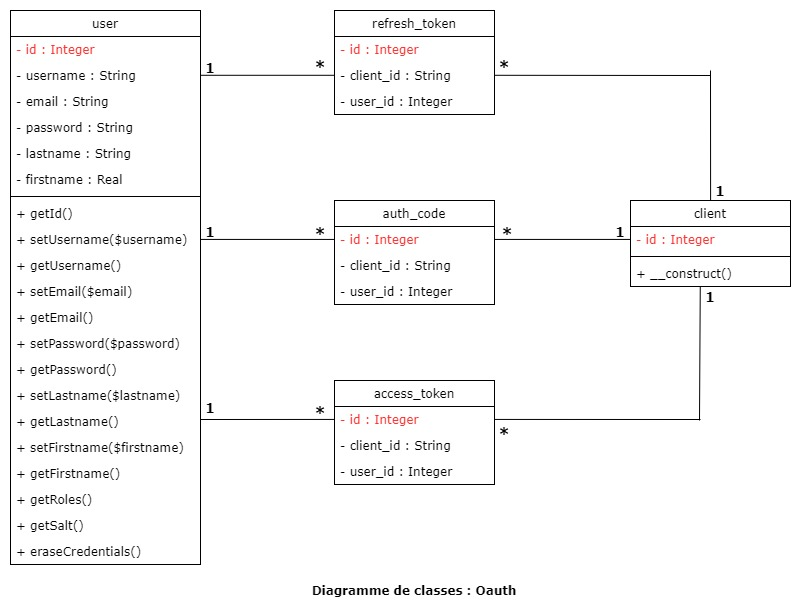
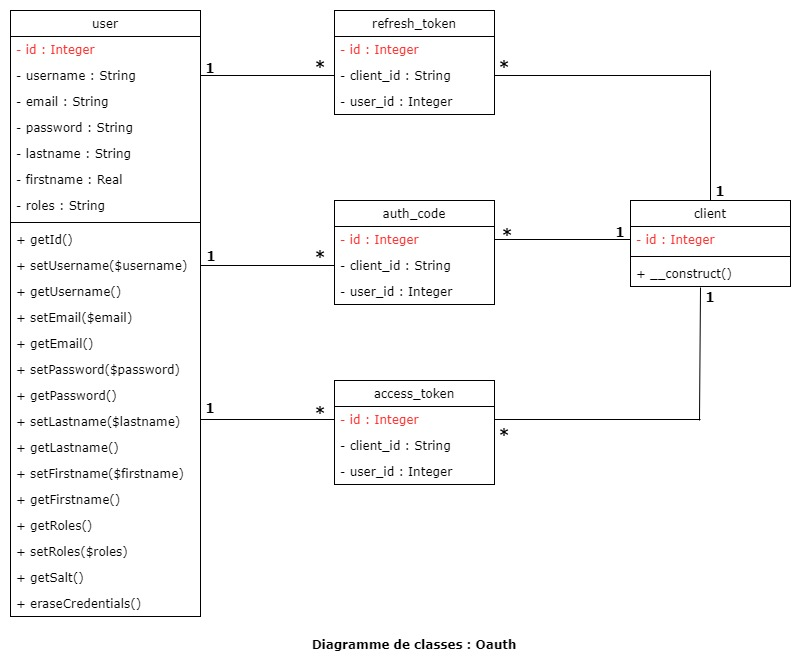
Minor modifications and ROLE_ADMIN security, closes #5

diff --git a/src/AppBundle/Controller/SecurityController.php b/src/AppBundle/Controller/SecurityController.php
@@ -31,6 +31,11 @@ class SecurityController extends FOSRestController
      * 		description = "User's email."
      * )
      * @Rest\RequestParam(
+     *		name = "username",
+     *		nullable = false,
+     * 		description = "User's username."
+     * )
+     * @Rest\RequestParam(
      *		name = "password",
      *		nullable = false,
      * 		description = "User's password."
@@ -69,6 +74,12 @@ class SecurityController extends FOSRestController
      *		name = "redirect_uri",
      *		description = "The url where Oauth server will be redirected."
      * )
+     * @Rest\RequestParam(
+     *		name = "role",
+     *      requirements = "ROLE_USER|ROLE_ADMIN",
+     *		nullable = false,
+     *		description = "Possibility to create an Admin who can delete users."
+     * )
      * @Doc\ApiDoc(
      * 		section = "User",
      *		resource = true,
@@ -79,9 +90,11 @@ class SecurityController extends FOSRestController
     {
         $user = new User();
         $user->setEmail($paramFetcher->get('email'));
+        $user->setUsername($paramFetcher->get('username'));
         $user->setPassword($encoder->encodePassword($user, $paramFetcher->get('password')));
         $user->setLastname($paramFetcher->get('lastname'));
         $user->setFirstname($paramFetcher->get('firstname'));
+        $user->setRoles(array($paramFetcher->get('role')));
         $errors = $this->get('validator')->validate($user);
         if (count($errors)) {
             $message = 'The JSON sent contains invalid data. Here are the errors you need to correct: ';
@@ -99,7 +112,7 @@ class SecurityController extends FOSRestController
             'client_id'		=> $paramFetcher->get('client_id'),
             'client_secret'	=> $paramFetcher->get('client_secret'),
             'grant_type'	=> $paramFetcher->get('grant_type'),
-            'username'		=> $user->getUsername(),
+            'username'		=> $user->getEmail(),
             'password'		=> $paramFetcher->get('password'),
             'redirect_uri'	=> $paramFetcher->get('redirect_uri')
         ]);

diff --git a/src/AppBundle/Controller/UserController.php b/src/AppBundle/Controller/UserController.php
@@ -9,6 +9,7 @@ use FOS\RestBundle\Controller\Annotations as Rest;
 use Nelmio\ApiDocBundle\Annotation as Doc;
 use FOS\RestBundle\Request\ParamFetcherInterface;
 use Symfony\Component\HttpFoundation\Request;
+use Sensio\Bundle\FrameworkExtraBundle\Configuration\Security;
 
 /**
  * @Route("/api")
@@ -57,7 +58,7 @@ class UserController extends Controller
 
     /**
      * @Rest\Get(
-     *		path = "/users/{id}",
+     *		path = "/user/{id}",
      *		name = "get_user",
      *		requirements = {"id"="\d+"}
      * )
@@ -85,12 +86,13 @@ class UserController extends Controller
 
     /**
      * @Rest\Delete(
-     *     path = "/users/{id}",
+     *     path = "/user/{id}",
      *     name = "delete_user",
      *     requirements = {"id"="\d+"}
      * )
      *
-     *
+     * @Security("has_role('ROLE_ADMIN')")
+     * 
      * @Rest\View(statusCode=204)
      *
      * @Doc\ApiDoc(

diff --git a/src/AppBundle/Entity/User.php b/src/AppBundle/Entity/User.php
@@ -86,6 +86,11 @@ class User implements UserInterface
     private $firstname;
 
     /**
+     * @ORM\Column(name="role", type="json_array")
+     */
+    private $roles;
+
+    /**
      * Get id
      *
      * @return int
@@ -128,8 +133,6 @@ class User implements UserInterface
      */
     public function setEmail($email)
     {
-        //add email has username 
-        $this->username = $email;
         $this->email = $email;
 
         return $this;
@@ -217,11 +220,18 @@ class User implements UserInterface
         return $this->firstname;
     }
 
-    // interface
-
     public function getRoles()
     {
-        return array('ROLE_USER');
+        $roles = $this->roles;
+
+        return array_unique($roles);
+    }
+
+    public function setRoles(array $roles)
+    {
+        $this->roles = $roles;
+
+        return $this;
     }
 
     public function getSalt()

diff --git a/src/AppBundle/Controller/CategoryController.php b/src/AppBundle/Controller/CategoryController.php
@@ -34,7 +34,7 @@ class CategoryController extends Controller
 
     /**
      * @Rest\Get(
-     *		path = "/categories/{id}",
+     *		path = "/category/{id}",
      *		name = "get_category",
      *		requirements = {"id"="\d+"}
      * )

diff --git a/src/AppBundle/Controller/ProductController.php b/src/AppBundle/Controller/ProductController.php
@@ -65,7 +65,7 @@ class ProductController extends Controller
 
     /**
      * @Rest\Get(
-     *		path = "/products/{id}",
+     *		path = "/product/{id}",
      *		name = "get_product",
      *		requirements = {"id"="\d+"}
      * )

diff --git a/BileMo_doc.md b/BileMo_doc.md
@@ -7,9 +7,9 @@
 _Get the list of all categories._
 
 
-## /api/categories/{id} ##
+## /api/category/{id} ##
 
-### `GET` /api/categories/{id} ###
+### `GET` /api/category/{id} ###
 
 _Get one category._
 
@@ -24,6 +24,21 @@ _Get one category._
 
 
 # Products #
+
+## /api/product/{id} ##
+
+### `GET` /api/product/{id} ###
+
+_Get one product._
+
+#### Requirements ####
+
+**id**
+
+  - Requirement: \d+
+  - Type: integer
+  - Description: The product unique identifier.
+
 
 ## /api/products ##
 
@@ -57,21 +72,6 @@ offset:
   * Default: 0
 
 
-## /api/products/{id} ##
-
-### `GET` /api/products/{id} ###
-
-_Get one product._
-
-#### Requirements ####
-
-**id**
-
-  - Requirement: \d+
-  - Type: integer
-  - Description: The product unique identifier.
-
-
 
 # User #
 
@@ -82,16 +82,9 @@ _Get one product._
 _Get current user informations._
 
 
-## /api/users ##
+## /api/user/{id} ##
 
-### `GET` /api/users ###
-
-_Get all users registered._
-
-
-## /api/users/{id} ##
-
-### `DELETE` /api/users/{id} ###
+### `DELETE` /api/user/{id} ###
 
 _Delete one user._
 
@@ -103,7 +96,7 @@ _Delete one user._
   - Description: The user unique identifier.
 
 
-### `GET` /api/users/{id} ###
+### `GET` /api/user/{id} ###
 
 _Get one user._
 
@@ -114,6 +107,13 @@ _Get one user._
   - Requirement: \d+
   - Type: integer
   - Description: The user unique identifier.
+
+
+## /api/users ##
+
+### `GET` /api/users ###
+
+_Get all users registered._
 
 
 ## /register ##
@@ -129,6 +129,12 @@ email:
   * type: [a-z0-9._-]+@[a-z0-9._-]{2,}\.[a-z]{2,4}
   * required: true
   * description: User's email.
+
+username:
+
+  * type: 
+  * required: true
+  * description: User's username.
 
 password:
 
@@ -171,3 +177,9 @@ redirect_uri:
   * type: 
   * required: true
   * description: The url where Oauth server will be redirected.
+
+role:
+
+  * type: ROLE_USER|ROLE_ADMIN
+  * required: true
+  * description: Possibility to create an Admin who can delete users.

diff --git a/README.md b/README.md
@@ -34,7 +34,7 @@ Faites une requête POST sur /oauth/v2/token avec les paramètres suivants :
 1. client_secret = CLIENT_SECRET
 1. redirect_uri = REDIRECT_URI
 1. grant_type = password
-1. username = USERNAME
+1. username = YOUR_EMAIL
 1. password = PASSWORD
 
 Pour accèder à l'API, il faut ensuite envoyer une requête avec un en-tête de type Autorisation = 'Bearer ' + le token de l'utilisateur.
@@ -63,7 +63,7 @@ Make a POST request on /oauth/v2/token with the following parameters:
 1. client_secret = CLIENT_SECRET
 1. redirect_uri = REDIRECT_URI
 1. grant_type = password
-1. username = USERNAME
+1. username = YOUR_EMAIL
 1. password = PASSWORD
 
 To access the API, you have to send a request with a header Authorization = 'Bearer ' + the user's token.
